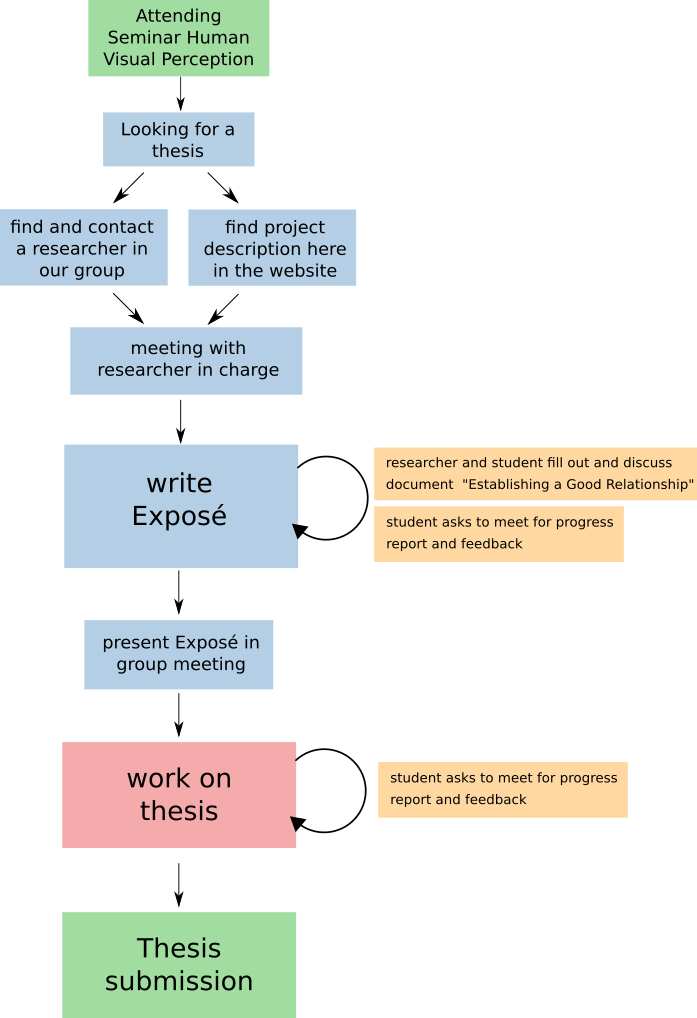
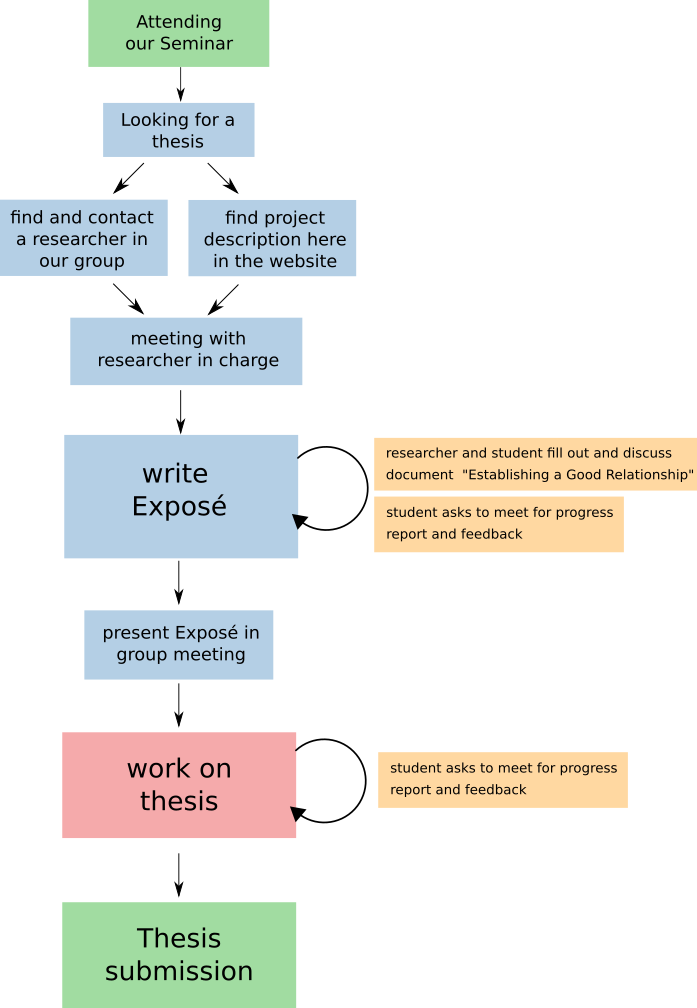
edits theses page, modifies workflow diagramm

diff --git a/content/pages/theses.rst b/content/pages/theses.rst
@@ -10,20 +10,6 @@ We offer **Bachelor's and Master's theses** in the area of **visual perception r
 If you are interested in inquiring, please first read the section General Information below.
 
 
-`List of available projects and their descriptions <projects.html>`_
-
-
-`Complete Theses <finished_theses.html>`_
-
-`The Crispening Effect: An Artifact of a Method or a Feature of the Visual System (2020) <files/theses/CBrunn_Bachelorthesis_2020.pdf>`_ (BA thesis, Carolin Brunn)
-
-`Perceived Contrast in Variegated Checkerboards (2020) <files/theses/MasterThesis_YiqunXiao_2020.pdf>`_ (MA thesis, Yiqun Xiao)
-
-
-
-
------
-
 
 General Thesis Information 
 ###########################
@@ -34,11 +20,11 @@ Please read the following content carefully before inquiring about a topic.
 Who can write a thesis with us and what are the prerequisites?
 ******************************************************************
 
-In general, any student with interest in visual perception and some programming skills is welcome to write a Bachelor’s or Master’s thesis in our group. However, we do require that you have attended at least one of the `courses taught by our department <teaching.html>`_.
+In general, any student with interest in visual perception and some programming skills is welcome to write a Bachelor’s or Master’s thesis in our group. However, we do require that you have attended a `Seminar taught by our department <teaching.html>`_.
 
 To ensure the successful completion of a thesis, we see the following requirements:
 
-- completion of the Seminar `Human Visual Perception and Image Quality <https://moseskonto.tu-berlin.de/moses/modultransfersystem/bolognamodule/beschreibung/anzeigen.html?nummer=41000&version=1&sprache=1>`_
+- completion of a `Seminar taught by our deparment <teaching.html>`_, in which we introduce basic aspects of visual perception and how to develop a research project.  
 - interest in visual perception research
 - programming skills in python or R
 - good English skills to read the relevant literature
@@ -91,3 +77,18 @@ Documents
 - `Exposé  guidelines detailed (English) <files/theses/BA_expose_detailed_ENG.pdf>`_
 
 - `"Establishing a good relationship from the Beginning" <files/theses/establishing-a-good-relationship-from-the-beginning-2017.pdf>`_ , by Anna Lee. For Bachelor and Master's students questions 6 and 13 might be probably skipped; the survey was designed for supervision at the doctoral level.
+
+
+
+
+-----
+
+`List of available projects and their descriptions <projects.html>`_
+
+
+-----
+
+`Completed Theses here <finished_theses.html>`_
+
+
+
